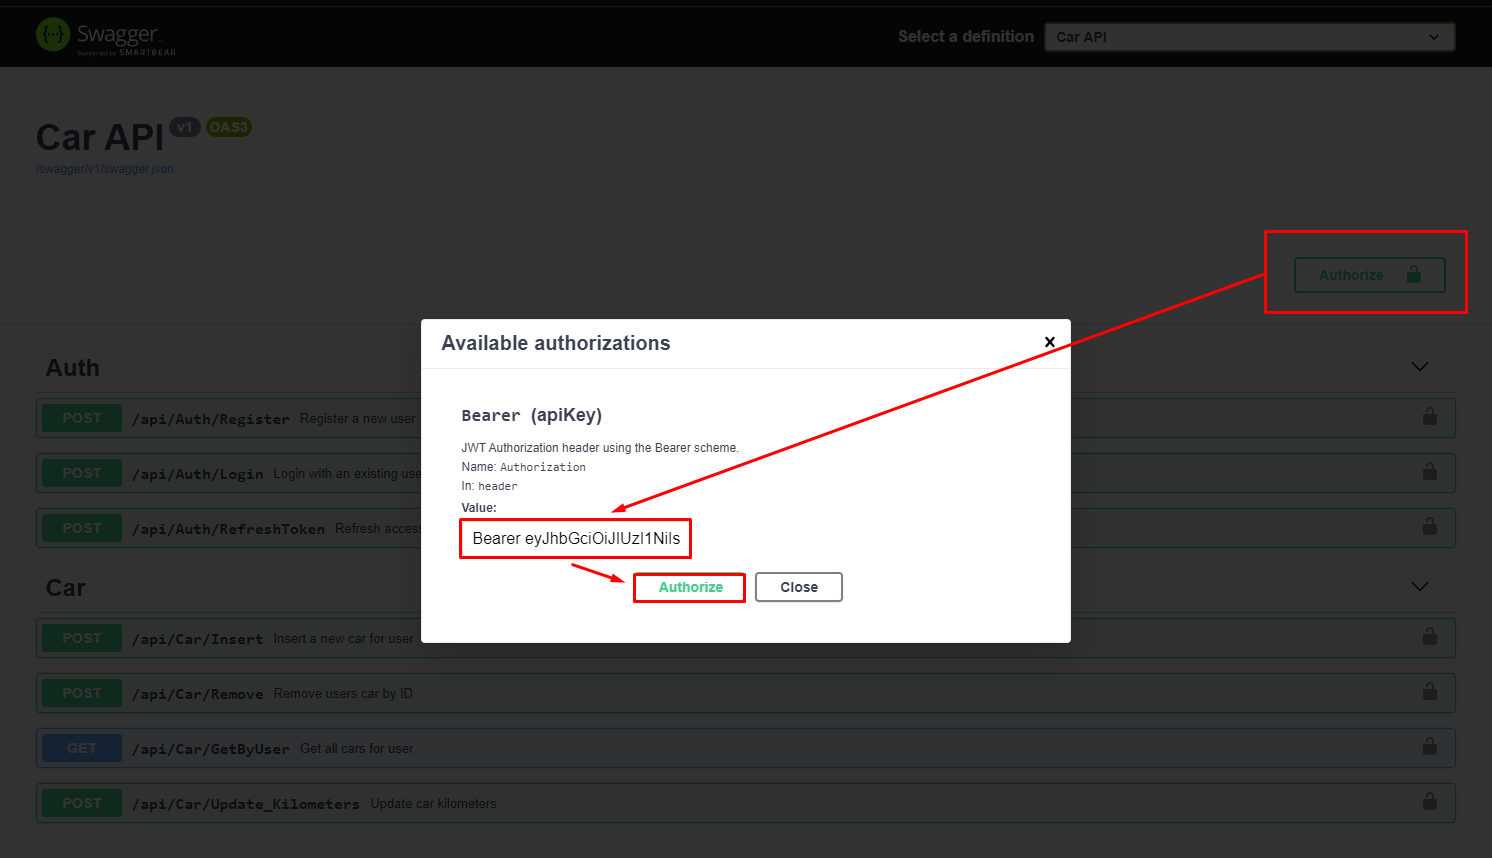
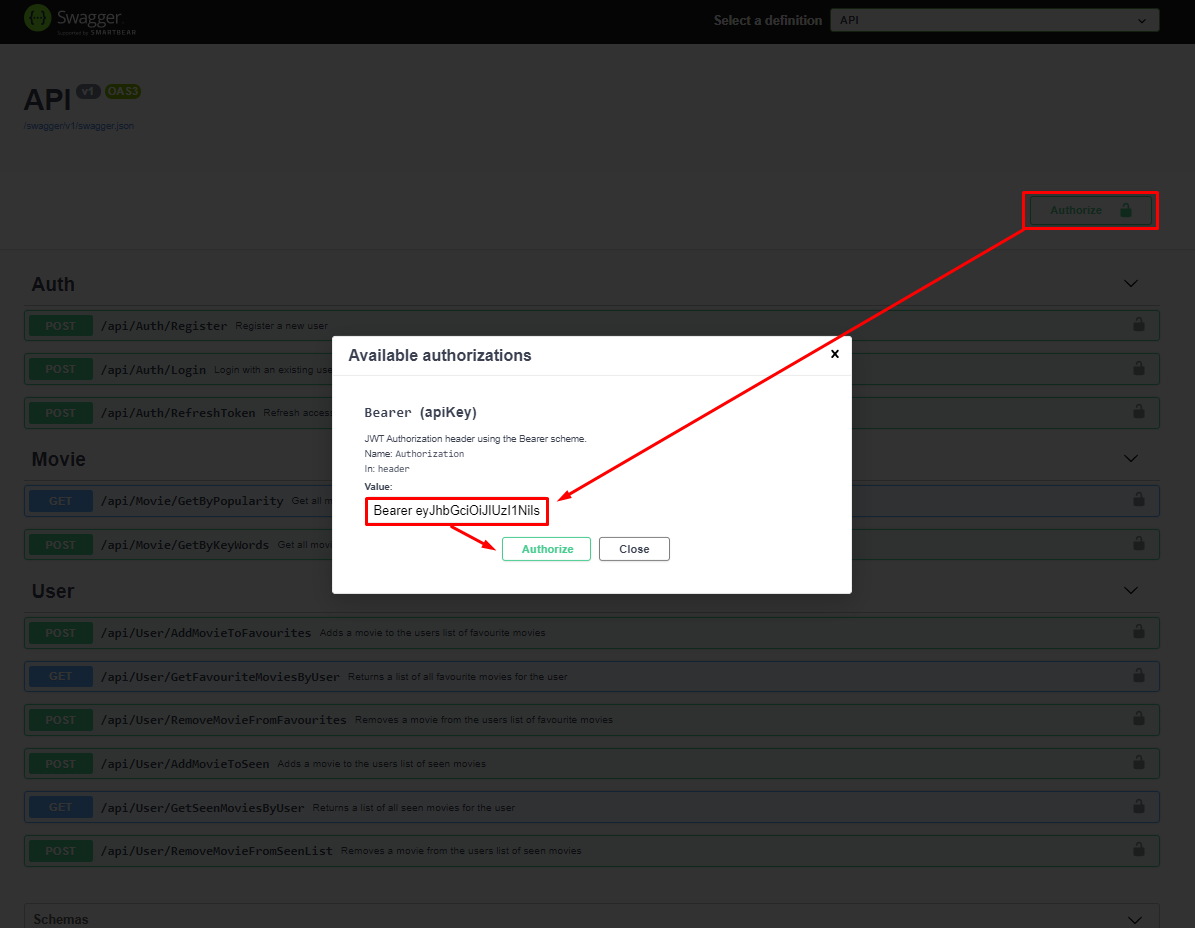
Fixed README

diff --git a/README.md b/README.md
@@ -118,7 +118,7 @@ all the endpoints that API offers.
 
 ![Swagger](DocsImages/Swagger.png)
 
-It is important to notice that all ``Car`` endpoints require you to be authorized
+It is important to notice that all ``Movie`` and ``User`` endpoints require you to be authorized
 in order to access their functionalities. To do so, you need to either register or login. 
 Once that is done, you will receive two JWT tokens: an access token and a refresh
 token. Afterwards, you press the green ``Authorize`` button on the right side, enter 
@@ -127,7 +127,7 @@ shown on the image below.
 
 ![J W T](DocsImages/JWT.png)
 
-This will grant you access to Car endpoints until your access token has expired. 
+This will grant you access to all endpoints until your access token has expired. 
 Then, you will have use the ``/api/Auth/RefreshToken`` endpoint, to gain a newly
 generated access and refresh tokens.
 
@@ -138,7 +138,7 @@ application to simulate a real world scenario feel free to check
 out [my other project aswell.](https://github.com/PatriQ94/VueUITemplate)
 Below image shows an example of the UI from the VueUITemplate project.
 
-![Garage](DocsImages/Garage.png)
+![Movies](DocsImages/movies.png)
 
 ### Changelog
 
